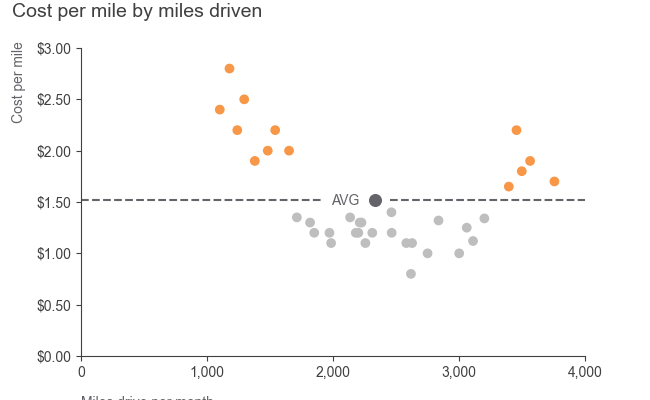
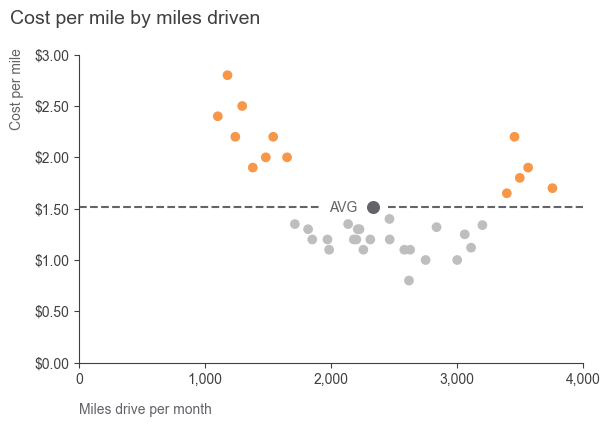
update

diff --git a/code/scatter_plot_1.py b/code/scatter_plot_1.py
@@ -52,5 +52,5 @@ ax.text(0, -0.5, 'Miles drive per month', fontsize=10, color=GRAY4)
 ax.text(-550, 2.3, 'Cost per mile', fontsize=10, color=GRAY4, rotation='vertical')
 ax.text(-550, 3.3, 'Cost per mile by miles driven', fontsize=14, color=GRAY2)
 
-plt.savefig('plots/scatter_plot_1.png')
+plt.savefig('plots/scatter_plot_1.png', bbox_inches="tight")
 plt.show()
